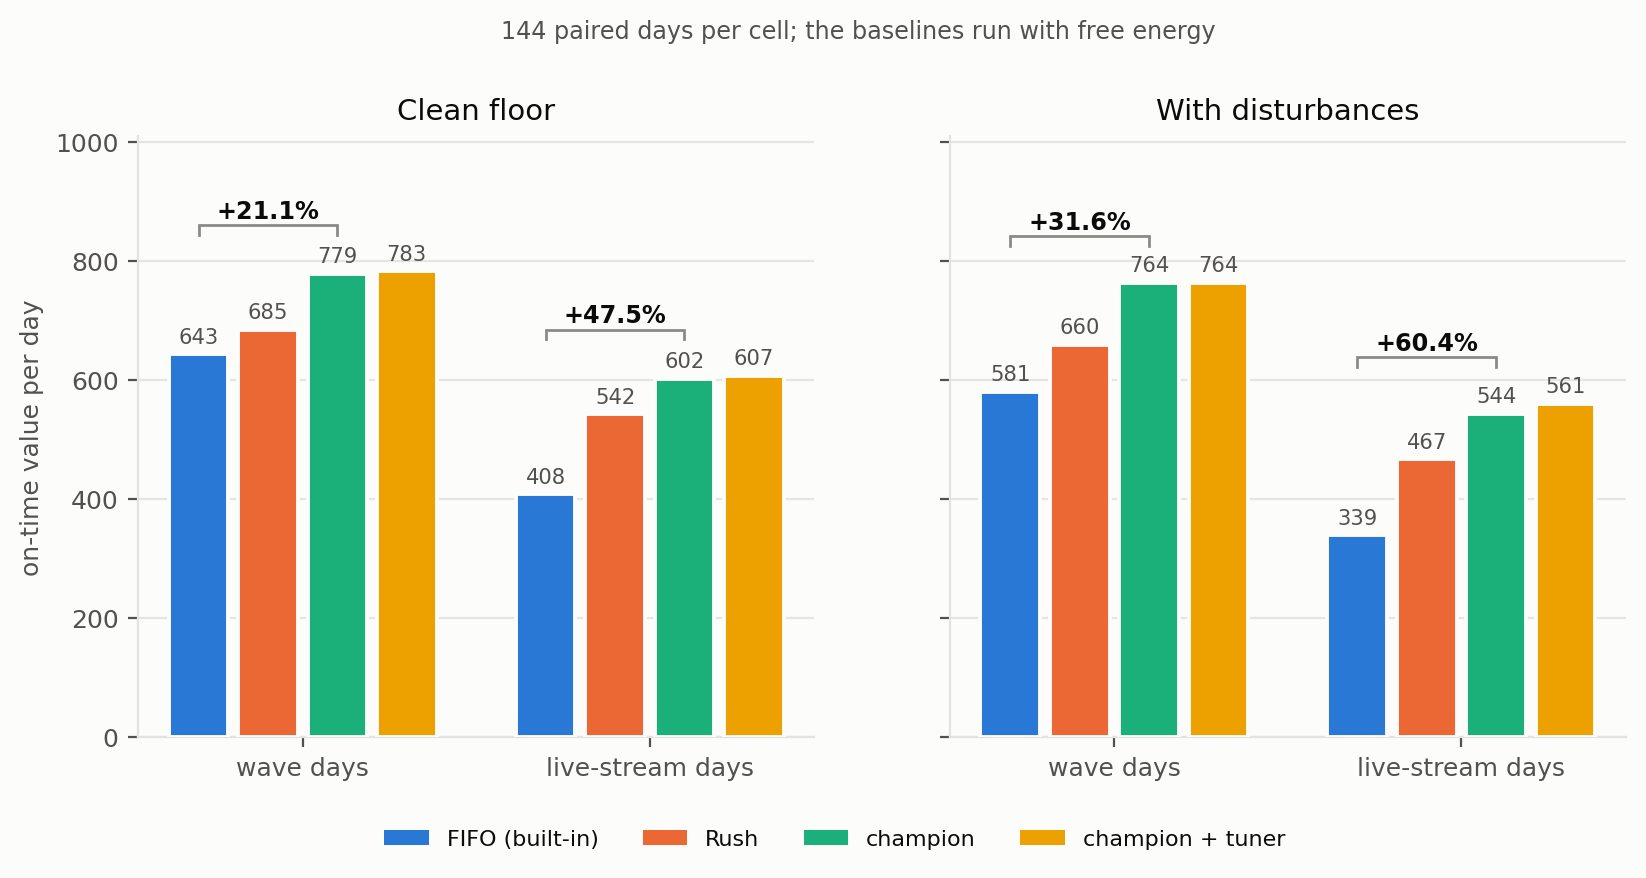
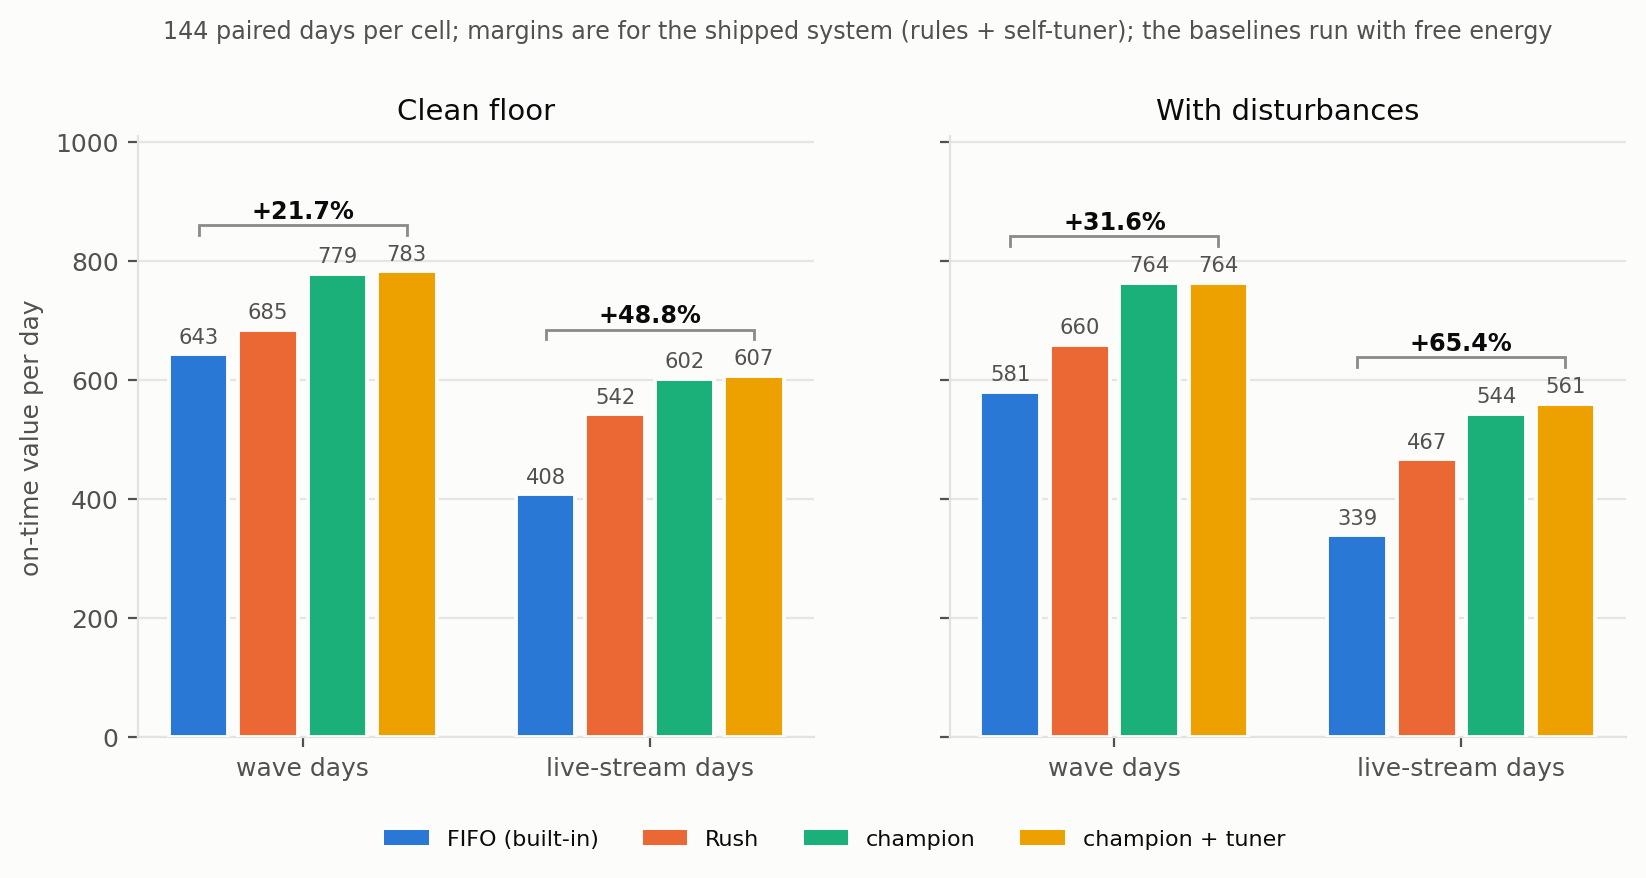
Benchmark figure: bracket the shipped arm, not the ablated one
The re-lead changed the text but not the figure — its brackets still spanned
FIFO to `champ`, so the callouts read +21.1 / +47.5 / +31.6 / +60.4 while the
prose beside them said +21.7 / +48.8 / +31.6 / +65.4. Brackets now span FIFO to
champion + tuner, and the subtitle says which arm the margins are for.

Caught by pulling the figures up to look at them rather than trusting that
regenerating the file was enough — the data had refreshed, the annotation had
not.

diff --git a/scripts/make_paper_figures.py b/scripts/make_paper_figures.py
@@ -101,11 +101,12 @@ def fig_benchmark():
                        edgecolor=SURFACE, linewidth=1.4)          # 2px surface gap
                 ax.text(x, v + 12, "%.0f" % v, ha="center", va="bottom",
                         fontsize=7.6, color=INK2)                  # relief: direct labels
-        # the headline margin, champion vs the vendored dispatcher: a bracket clear of the labels
+        # the headline margin: the SHIPPED system (rules + tuner) against the vendored dispatcher.
+        # Bracketing `champ` here would contradict the text, which leads with the shipped arm.
         for gi, regime in enumerate(("wave", "stream")):
-            f, c = src[("fifo", regime)], src[("champ", regime)]
+            f, c = src[("fifo", regime)], src[("mpc", regime)]
             top = max(src[(k, regime)] for k, _l, _c in arms) + 78
-            x0, x1 = gi * 5, gi * 5 + 2
+            x0, x1 = gi * 5, gi * 5 + 3
             ax.plot([x0, x0, x1, x1], [top - 16, top, top, top - 16],
                     color=INK3, lw=1.0, zorder=5, solid_joinstyle="miter")
             ax.text((x0 + x1) / 2, top + 12, "+%.1f%%" % (100 * (c - f) / f),
@@ -118,8 +119,8 @@ def fig_benchmark():
     axes[0].set_ylabel("on-time value per day")
     axes[0].legend(handles=[Patch(facecolor=c, label=l) for _k, l, c in arms],
                    loc="upper center", bbox_to_anchor=(1.03, -0.12), ncol=4)
-    fig.suptitle("144 paired days per cell; the baselines run with free energy",
-                 y=1.03, fontsize=8.6, color=INK2)
+    fig.suptitle("144 paired days per cell; margins are for the shipped system (rules + self-tuner); "
+                 "the baselines run with free energy", y=1.03, fontsize=8.6, color=INK2)
     save(fig, "fig_benchmark.png")
 
 
